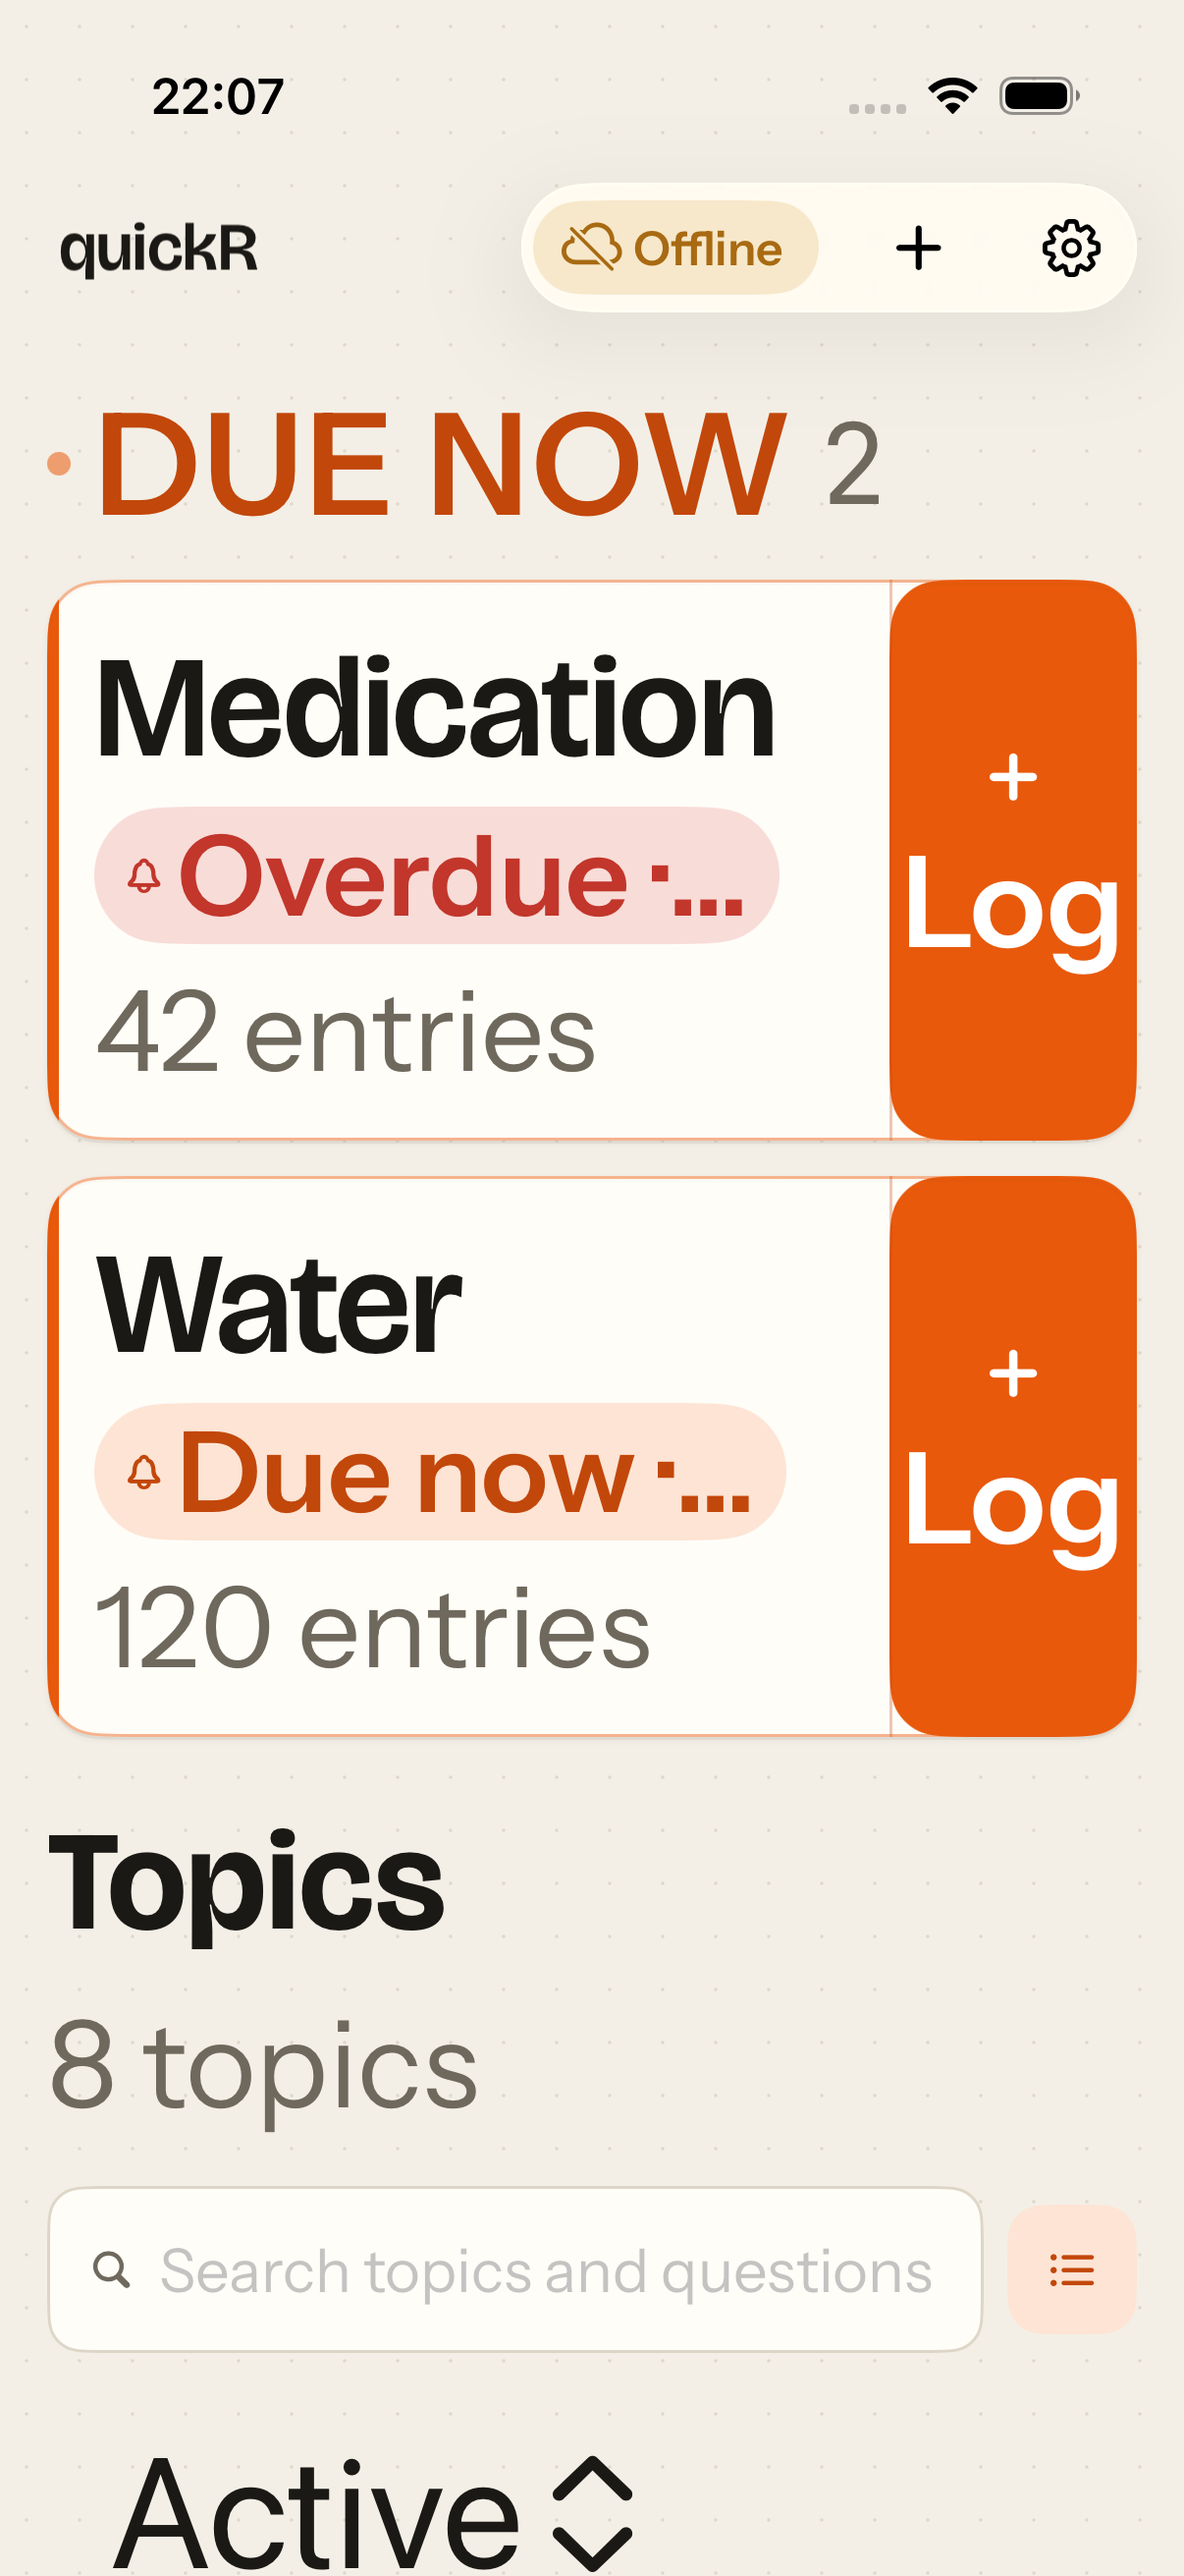
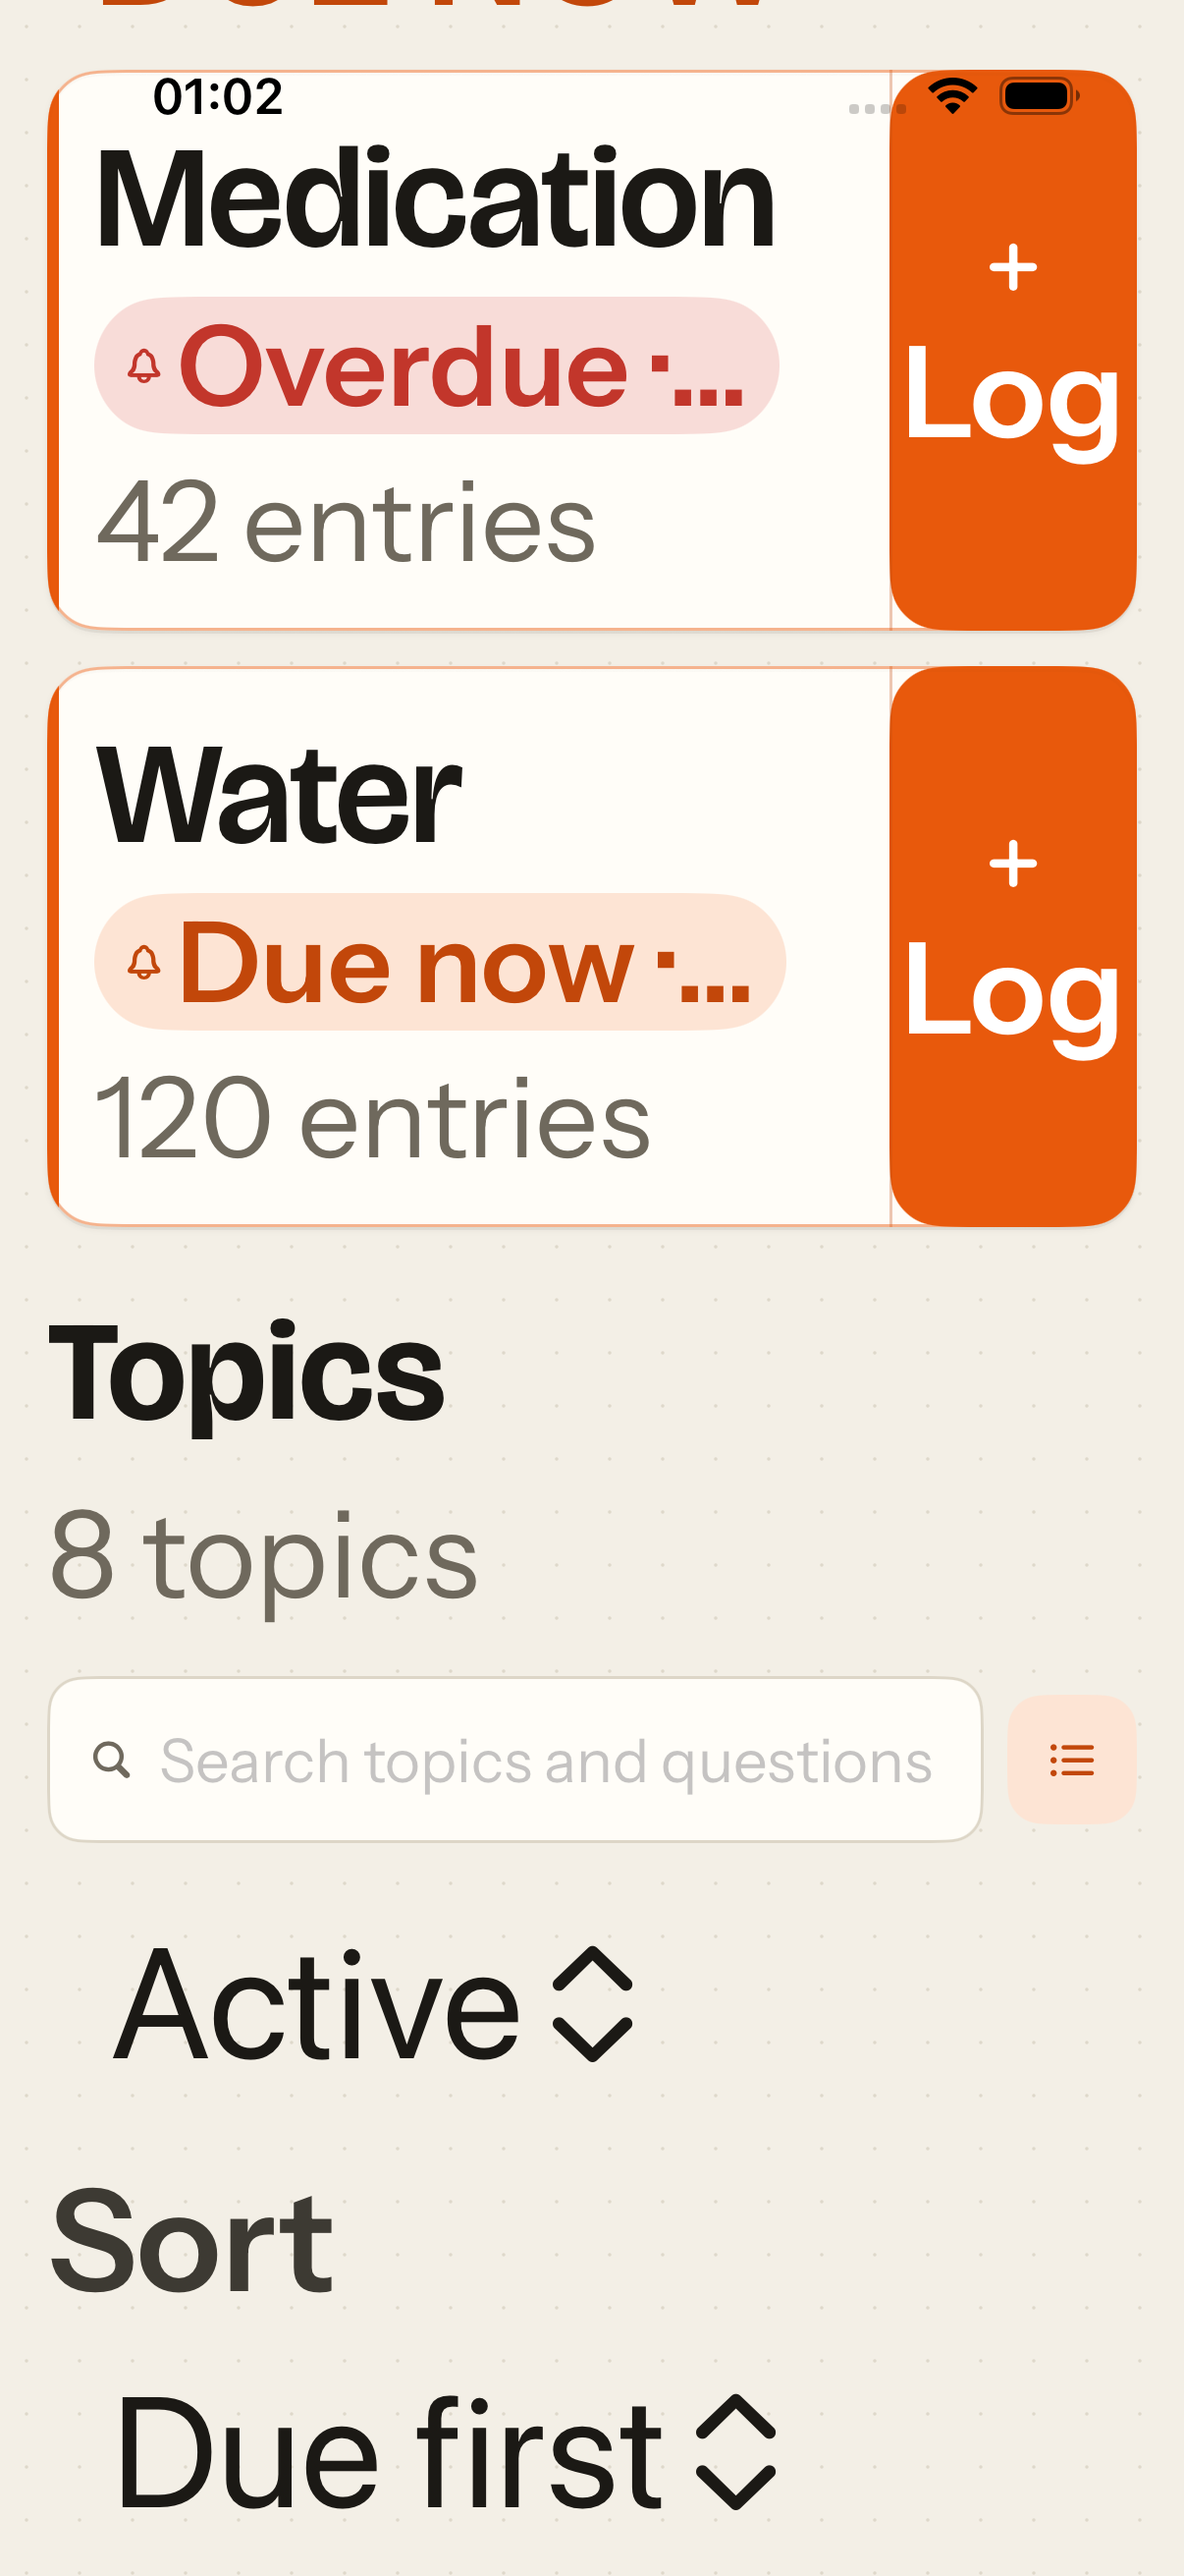
iOS: HOME: at accessibility sizes the header scrolls with the list; AX layout fixes
- Pinned, the two-row XXXL header covered about a quarter of the screen
  and sat over the list's controls while scrolled. At accessibility sizes
  it is now the list's first row, and stays pinned at standard sizes. Its
  background is opaque, so nothing ghosts through.
- New UI test: at XXXL the header never overlaps the filter or the
  search row, and after a fling the filter is reachable and works.
- Section titles shrink to fit instead of breaking mid-word
  ("UNSCHEDULE/D").
- The sort row stacks its label above the menu at accessibility sizes.
  Its two-line label had overflowed onto the next section.
- AX screenshots: the filter panel open, and after a fling.

Claude-Session: https://claude.ai/code/session_01HTmChhesB2wtCfWYaBfSpu

diff --git a/ios/App/Home/HomeView.swift b/ios/App/Home/HomeView.swift
@@ -34,6 +34,9 @@ struct HomeView: View {
     var body: some View {
         ScrollView {
             VStack(alignment: .leading, spacing: 16) {
+                // At accessibility sizes the header is two rows deep: it scrolls with the list
+                // instead of covering a quarter of the screen.
+                if typeSize.isAccessibilitySize { header.padding(.horizontal, -16) }
                 content
             }
             .padding(.horizontal, 16)
@@ -43,10 +46,9 @@ struct HomeView: View {
         .qrPaperBackground()
         .accessibilityIdentifier("home.list")
         // A header of its own rather than the navigation bar's items, which don't grow with
-        // Dynamic Type.
+        // Dynamic Type. Pinned at the standard sizes; in the list at accessibility sizes.
         .safeAreaInset(edge: .top, spacing: 0) {
-            HomeHeader(
-                online: model.isOnline, pending: model.pendingCount, failed: model.failedCount, actions: actions)
+            if !typeSize.isAccessibilitySize { header }
         }
         .toolbar(.hidden, for: .navigationBar)
         .task(id: ObservationKey(binding: session.binding, attempt: model.attempt)) { await model.observe() }
@@ -64,6 +66,10 @@ struct HomeView: View {
             // Fails quietly until notifications are authorized (M3).
             UNUserNotificationCenter.current().setBadgeCount(count) { _ in }
         }
+    }
+
+    private var header: some View {
+        HomeHeader(online: model.isOnline, pending: model.pendingCount, failed: model.failedCount, actions: actions)
     }
 
     private struct ObservationKey: Hashable {
@@ -247,14 +253,17 @@ struct HomeView: View {
                 .pickerStyle(.segmented)
                 .accessibilityIdentifier("home.status")
             }
-            HStack {
+            // At accessibility sizes the label goes above the menu, which gets the full width
+            // (side by side, its two-line label overflowed onto the next section).
+            AdaptiveStack(vertical: typeSize.isAccessibilitySize, spacing: 4, alignment: .center) {
                 Text("Sort").font(.qr(.label)).foregroundStyle(.qr.inkSoft)
-                Spacer()
+                if !typeSize.isAccessibilitySize { Spacer() }
                 Picker("Sort", selection: $model.sort) {
                     ForEach(TopicSort.allCases, id: \.self) { Text($0.label).tag($0) }
                 }
                 .pickerStyle(.menu)
                 .tint(.qr.ink)
+                .fixedSize(horizontal: false, vertical: true)
                 .accessibilityIdentifier("home.sort")
             }
         }
@@ -278,7 +287,8 @@ struct HomeView: View {
 // MARK: - Pieces
 
 /// The top bar (the PWA's `TopBar`): the wordmark, then the sync pill, New topic and Settings. It
-/// scales with Dynamic Type; at accessibility sizes the buttons move under the wordmark.
+/// scales with Dynamic Type; at accessibility sizes the buttons move under the wordmark and the
+/// header scrolls with the list.
 private struct HomeHeader: View {
     let online: Bool
     let pending: Int
@@ -306,7 +316,7 @@ private struct HomeHeader: View {
         .padding(.horizontal, 16)
         .padding(.vertical, 6)
         .frame(maxWidth: .infinity, alignment: .leading)
-        .background(Color.qr.paper.opacity(0.94))
+        .background(Color.qr.paper)
     }
 
     private func button(_ icon: QIcon, _ label: String, _ id: String, action: @escaping () -> Void) -> some View {
@@ -351,6 +361,9 @@ private struct HomeSection<Content: View>: View {
                 Text(title.uppercased())
                     .font(.qr(.label))
                     .tracking(0.8)
+                    // One word per title: shrink a little rather than break it mid-word.
+                    .lineLimit(1)
+                    .minimumScaleFactor(0.6)
                     .foregroundStyle(tone == .accent ? Color.qr.accentStrong : .qr.muted)
                 Text(count.formatted())
                     .font(.qr(.monoCaption))

diff --git a/ios/UITests/HomeTests.swift b/ios/UITests/HomeTests.swift
@@ -103,6 +103,34 @@ final class HomeTests: XCTestCase {
         add(shot)
     }
 
+    /// At XXXL the two-row header scrolls with the list instead of staying pinned, so it never
+    /// covers the list's controls: after a fling nothing lies under it, and the filter works.
+    @MainActor
+    func testAtXXXLTheHeaderNeverCoversTheList() {
+        let app = launch(["-UIPreferredContentSizeCategoryName", "UICTContentSizeCategoryAccessibilityXXXL"])
+        let search = app.textFields["home.search"]
+        let filter = app.buttons["home.filter"]
+        let header = app.buttons["home.settings"]
+        XCTAssertTrue(search.waitForExistence(timeout: 5))
+        for _ in 0..<3 {
+            scroll(app, by: 150)
+            if header.exists && filter.exists {
+                XCTAssertFalse(header.frame.intersects(filter.frame), "the header's buttons never sit on the filter")
+                XCTAssertLessThan(header.frame.maxY, search.frame.minY, "the header stays above the search row")
+            }
+        }
+        app.swipeUp(velocity: .fast)
+        let flung = XCTAttachment(screenshot: app.screenshot())
+        flung.name = "home-ax-xxxl-after-fling"
+        flung.lifetime = .keepAlways
+        add(flung)
+        for _ in 0..<20 where !(filter.exists && filter.isHittable && filter.frame.minY > 60) {
+            scroll(app, by: -150)
+        }
+        filter.tap()
+        XCTAssertTrue(app.descendants(matching: .any)["home.status"].waitForExistence(timeout: 5))
+    }
+
     /// The header's wordmark and sync pill grow with Dynamic Type (bar items wouldn't).
     @MainActor
     func testTheHeaderScalesWithDynamicType() {
